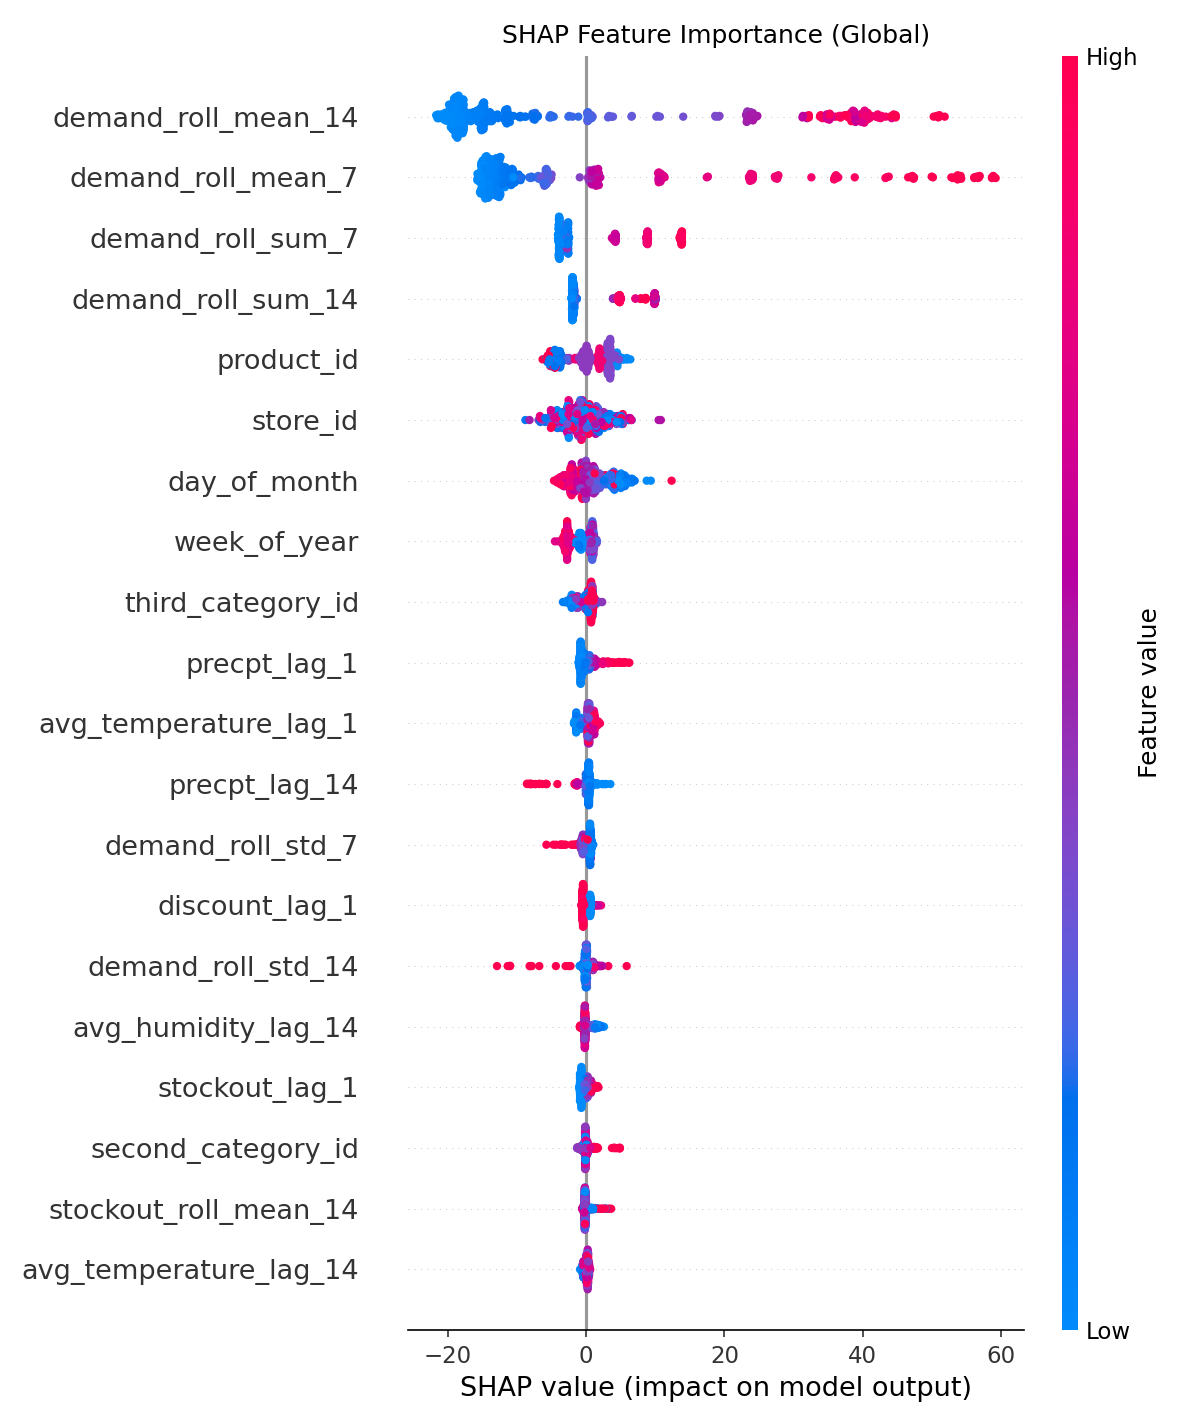
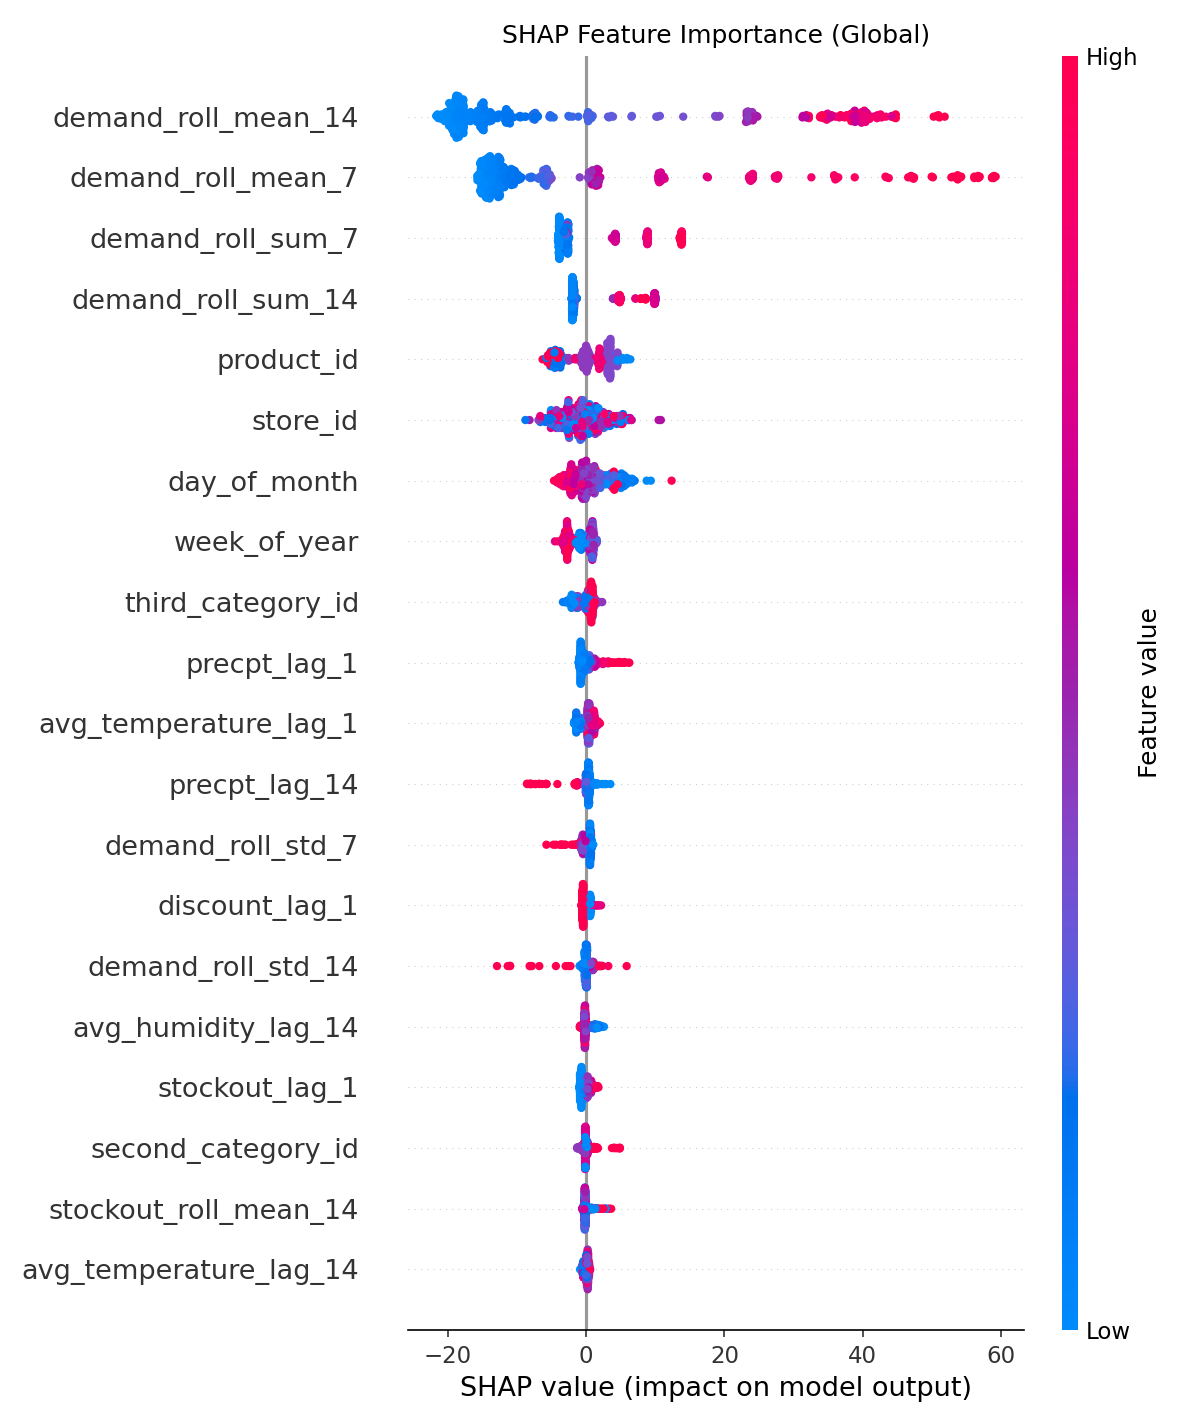
chore(scripts): eliminar el generador de SHAP duplicado
Anadi plot_shap_summary.py sin comprobar que plot_shap_champion.py ya existia desde
baf8f29 y hacia exactamente lo mismo, escribiendo ademas al mismo fichero de salida.
Dos scripts compitiendo por memoria/figures/shap_summary.png es una forma segura de que
la figura publicada dependa de cual se ejecuto ultimo.

Se conserva el original, que llevaba mejor documentado el diagnostico del segfault, y se
le porta lo unico que aportaba el mio: la guarda para el None que ahora puede devolver
calculate_shap_values desde que el calculo va aislado en un subproceso. Su docstring se
actualiza, porque describia el fallo como no resuelto.

diff --git a/scripts/plot_shap_champion.py b/scripts/plot_shap_champion.py
@@ -3,9 +3,9 @@
 Standalone, and deliberately not part of the experiment run. Computing SHAP for the
 LightGBM champion inside the pipeline process segfaults (exit 139) after the fold loop has
 trained both backends; the same call succeeds in isolation against the persisted model, on
-the same frame and the same tuned hyperparameters. A SIGSEGV cannot be caught by the
-`try/except` in `evaluation/xai.py`, so it takes the whole run down with it, artifacts
-included. Until that crash is understood, the figure comes from here.
+the same frame and the same tuned hyperparameters. `evaluation/xai.py` now runs the computation in a child process, so that crash costs the
+figure rather than the whole run, but the figure still has to come from somewhere: this
+script produces it without paying for a backtest to redraw a plot.
 
 It reads the champion from the registry, loads its persisted `.pkl`, and rebuilds the
 supervised frame from the configured panel, so the figure is reproducible from committed
@@ -85,6 +85,11 @@ def main() -> None:
         X=frame[metadata.feature_columns],
         sample_size=args.sample_size,
     )
+    if shap_values is None:
+        raise SystemExit(
+            "SHAP no pudo calcularse; el aviso anterior dice por qué. La figura no se escribe: "
+            "sobrescribirla con una en blanco sería peor que dejar la anterior en su sitio."
+        )
     args.output.parent.mkdir(parents=True, exist_ok=True)
     render_shap_summary(shap_values=shap_values, output_path=args.output)
     print(f"✅ Wrote {args.output}")
